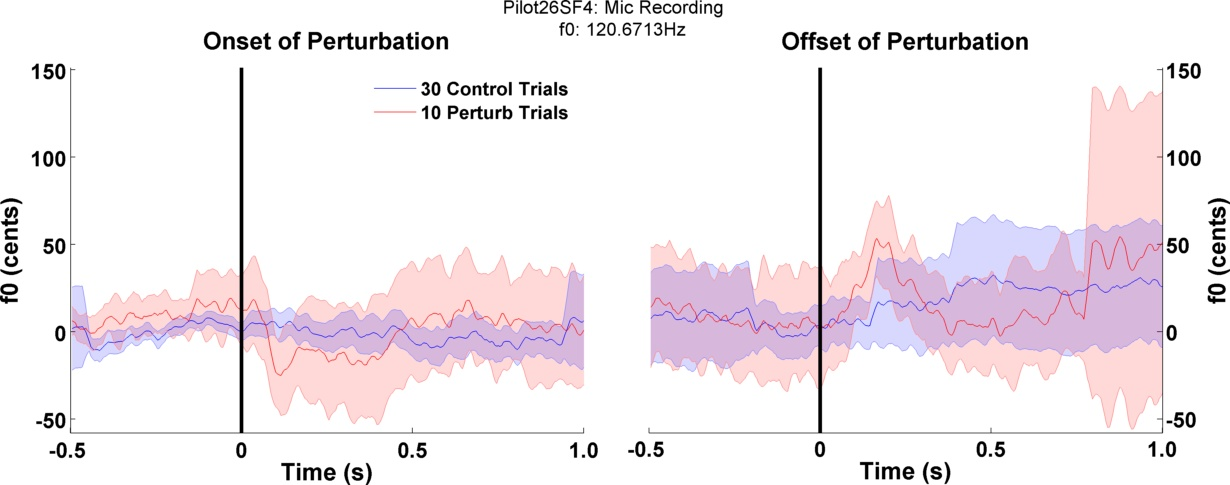
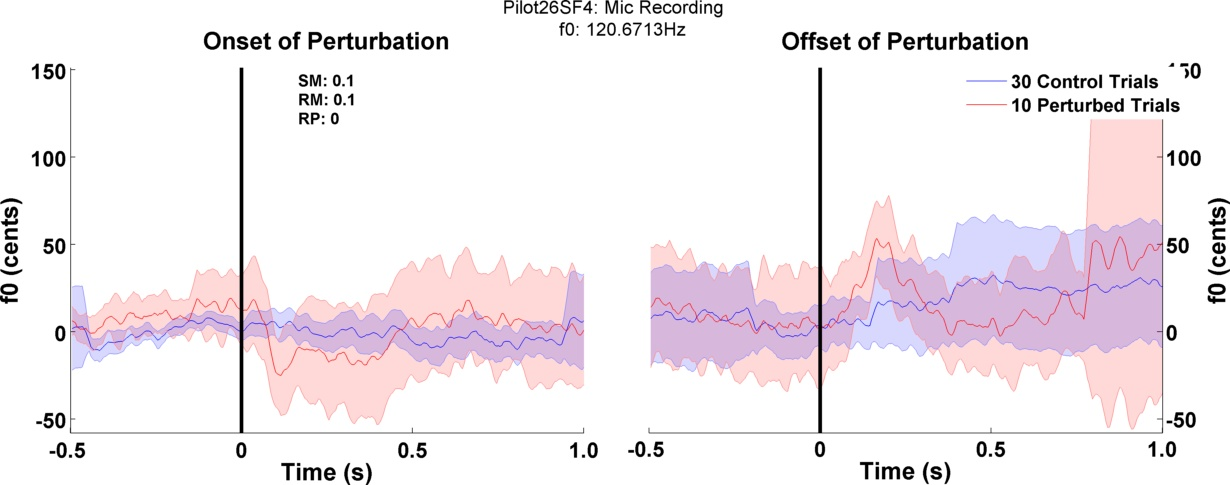
making this plot prettier
i know these commits suck. stay with me. nothing too much is changing

Changed region(s): [[0.2472, 0.1546, 0.4634, 0.2784], [0.8033, 0.1237, 0.9577, 0.2474]]

diff --git a/Analysis/drawDAQMeanTrialMicf0.m b/Analysis/drawDAQMeanTrialMicf0.m
@@ -17,8 +17,12 @@ meanf0ContOffset = niRes.audioMf0MeanCont(:,3);
 CIf0ContOffset   = niRes.audioMf0MeanCont(:,4);
 limits           = niRes.limitsAmean;
 
-plotpos = [200 100];
-plotdim = [1300 500];
+statSM = round(10*niRes.respVarM(2))/10;
+statRM = round(10*niRes.respVarM(3))/10;
+statRP = round(niRes.respVarM(4));
+
+plotpos = [10 100];
+plotdim = [1600 600];
 InterTrialf0 = figure('Color', [1 1 1]);
 set(InterTrialf0, 'Position',[plotpos plotdim],'PaperPositionMode','auto')
 
@@ -45,9 +49,6 @@ set(gca,'XTickLabel',{'-0.5' '0' '0.5' '1.0'},...
         'FontSize', 16,...
         'FontWeight','bold')
 
-l0 = legend([uH.mainLine pH.mainLine],[num2str(numCT) ' Control Trials'], [num2str(numPT) ' Perturb Trials']); 
-set(l0,'box', 'off','FontSize', 14, 'FontWeight', 'bold');
-
 %Offset of Perturbation
 axes(ha(2))
 shadedErrorBar(time, meanf0ContOffset, CIf0ContOffset, 'b', 1)  %Unperturbed
@@ -65,6 +66,26 @@ set(gca,'XTickLabel', {'-0.5' '0' '0.5' '1.0'},...
         'YAxisLocation', 'right');
 
 suptitle({[curSess ': Mic Recording']; ['   f0: ' num2str(f0b) 'Hz']})
+
+annoStim = ['SM: ' num2str(statSM)];
+annoResp = ['RM: ' num2str(statRM)];
+annoPerc = ['RP: ' num2str(statRP)];
+
+statBox = annotation('textbox',[.25 .75 0.45 0.1],...
+                     'string', {annoStim;
+                                annoResp
+                                annoPerc},...
+                        'LineStyle','none',...
+                        'FontWeight','bold',...
+                        'FontSize',12,...
+                        'FontName','Arial');
+                    
+legend([uH.mainLine pH.mainLine],{[num2str(numCT) ' Control Trials'], [num2str(numPT) ' Perturbed Trials']},...
+            'Box', 'off',...
+            'Edgecolor', [1 1 1],...
+            'FontSize', 14,...
+            'FontWeight', 'bold',...
+            'Position', [0.80 0.75 0.1 0.1]);
 
 plots = {'InterTrialf0DAQ'};
 for i = 1:length(plots)

diff --git a/Analysis/dfRunSubjPlotting.m b/Analysis/dfRunSubjPlotting.m
@@ -11,7 +11,7 @@ sv2File                = 0;
 PltVar.NIDAQ_allCh     = 0; %Voltage trace of force sensor signal
 PltVar.NIDAQ_PresMic   = 0;
 PltVar.NIDAQ_AligSens  = 0;
-PltVar.NIDAQ_AllPertTrial = 1;
+PltVar.NIDAQ_AllPertTrial = 0;
 PltVar.NIDAQ_MeanTrialMicf0 = 1;
 PltVar.IntraTrial_T    = 0; %SPL trace of individual trial
 PltVar.IntraTrial_f0   = 0; %f0 trace for each individual trial

diff --git a/Analysis/drawMeanSubjf0Resp.m b/Analysis/drawMeanSubjf0Resp.m
@@ -44,7 +44,6 @@ limits(3) = lwLimit;
 limits(4) = upLimit;
 
 pValueThresh = 0.05;
-figureL      = pltName(end);
 
 plotpos = [10 100];
 plotdim = [1600 600];
